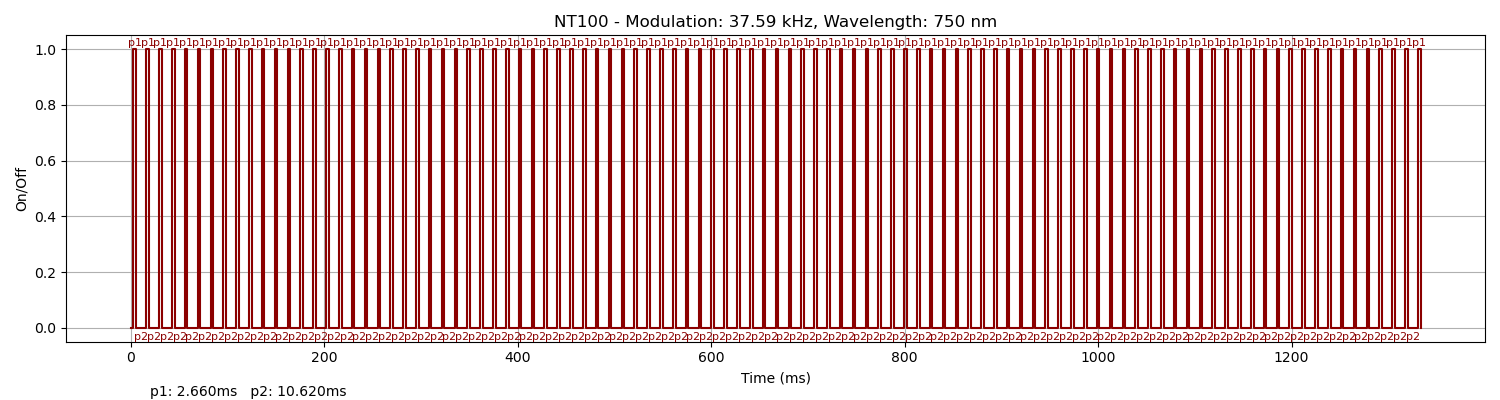
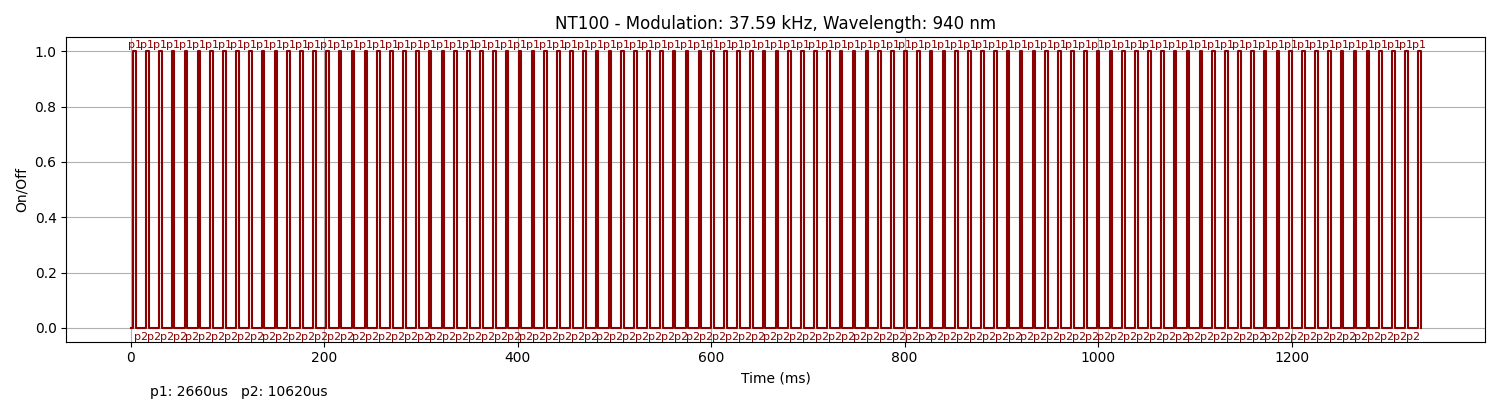
fix nt100 wavelength

diff --git a/nt100.md b/nt100.md
@@ -18,7 +18,7 @@ A pulseview recording made using a TSMP58000 of this signal can be found in the 
 
 ##### irplot.py data
 ```
-37.59 kHz, 750 nm, NT100, 100, 2660us, 10620us
+37.59 kHz, 940 nm, NT100, 100, 2660us, 10620us
 ```
 
 ##### irplot.py trace
